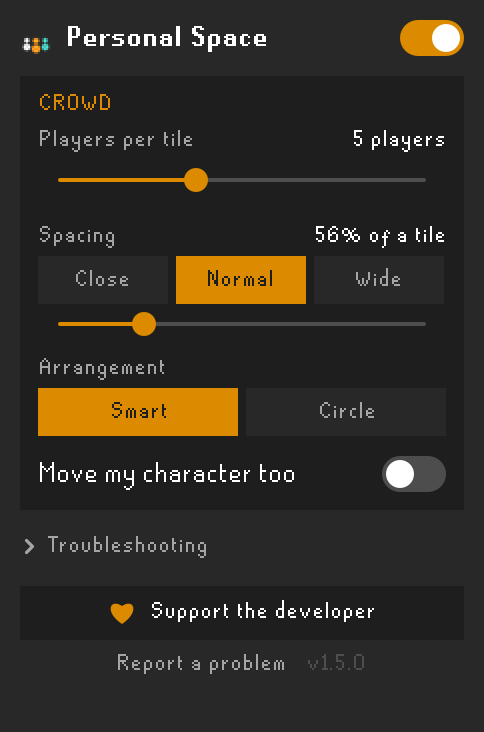
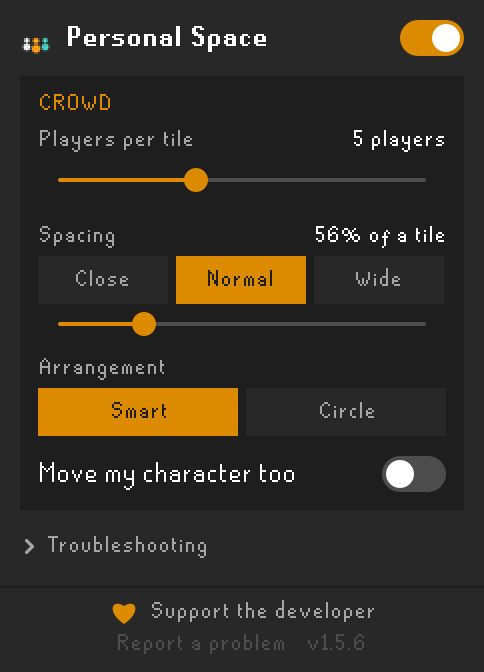
Pin a small Support the developer link to the bottom of the sidebar
The settings now scroll on their own and the support and report links sit
quietly at the very bottom instead of as a big orange button under the
settings. Version 1.5.6.

diff --git a/src/main/java/com/grant9008/personalspace/PersonalSpacePanel.java b/src/main/java/com/grant9008/personalspace/PersonalSpacePanel.java
@@ -23,12 +23,14 @@ import java.awt.image.BufferedImage;
 import java.util.ArrayList;
 import java.util.List;
 import java.util.function.Consumer;
+import javax.swing.BorderFactory;
 import javax.swing.Icon;
 import javax.swing.ImageIcon;
 import javax.swing.JButton;
 import javax.swing.JComponent;
 import javax.swing.JLabel;
 import javax.swing.JPanel;
+import javax.swing.JScrollPane;
 import javax.swing.JSlider;
 import javax.swing.SwingConstants;
 import javax.swing.Timer;
@@ -93,34 +95,39 @@ final class PersonalSpacePanel extends PluginPanel
 
 	PersonalSpacePanel(ConfigManager configManager, PersonalSpaceConfig config)
 	{
+		// No automatic scroll wrapper: the settings scroll on their own, and the links stay pinned
+		// to the bottom of the sidebar out of the way.
+		super(false);
 		this.configManager = configManager;
 		this.config = config;
 
-		setLayout(new GridBagLayout());
-		setBorder(new EmptyBorder(10, 10, 10, 10));
+		setLayout(new BorderLayout());
+		setBorder(new EmptyBorder(0, 0, 0, 0));
 		setBackground(ColorScheme.DARK_GRAY_COLOR);
 
+		JPanel content = new JPanel(new GridBagLayout());
+		content.setBackground(ColorScheme.DARK_GRAY_COLOR);
+		content.setBorder(new EmptyBorder(10, 10, 10, 10));
 		GridBagConstraints c = column();
-		add(buildHeader(), c);
+		content.add(buildHeader(), c);
 
 		c.gridy++;
-		add(buildCrowdCard(), c);
-
-
-		c.gridy++;
-		c.insets = new Insets(0, 0, 6, 0);
-		add(buildTroubleshooting(), c);
+		content.add(buildCrowdCard(), c);
 
 		c.gridy++;
-		c.insets = new Insets(4, 0, 0, 0);
-		add(buildFooter(), c);
+		content.add(buildTroubleshooting(), c);
 
-		// Push everything to the top when the sidebar is taller than the content.
-		c.gridy++;
-		c.weighty = 1;
-		JPanel filler = new JPanel();
-		filler.setOpaque(false);
-		add(filler, c);
+		// Keep the content at the top of the scroll area.
+		JPanel top = new JPanel(new BorderLayout());
+		top.setBackground(ColorScheme.DARK_GRAY_COLOR);
+		top.add(content, BorderLayout.NORTH);
+		JScrollPane scroll = new JScrollPane(top);
+		scroll.setBorder(null);
+		scroll.setHorizontalScrollBarPolicy(JScrollPane.HORIZONTAL_SCROLLBAR_NEVER);
+		scroll.getVerticalScrollBar().setUnitIncrement(16);
+		scroll.getViewport().setBackground(ColorScheme.DARK_GRAY_COLOR);
+		add(scroll, BorderLayout.CENTER);
+		add(buildFooter(), BorderLayout.SOUTH);
 
 		wireControls();
 		refreshControls();
@@ -332,20 +339,24 @@ final class PersonalSpacePanel extends PluginPanel
 	private JPanel buildFooter()
 	{
 		JPanel p = new JPanel(new GridBagLayout());
-		p.setOpaque(false);
+		p.setBackground(ColorScheme.DARK_GRAY_COLOR);
+		p.setBorder(BorderFactory.createCompoundBorder(
+			BorderFactory.createMatteBorder(1, 0, 0, 0, ColorScheme.DARKER_GRAY_COLOR),
+			new EmptyBorder(6, 10, 8, 10)));
 		GridBagConstraints c = column();
 
-		ActionButton support = new ActionButton("Support the developer", new HeartIcon(ColorScheme.BRAND_ORANGE), false);
+		JLabel support = new JLabel("Support the developer", new HeartIcon(ColorScheme.BRAND_ORANGE), SwingConstants.CENTER);
+		support.setIconTextGap(6);
 		support.setToolTipText("Personal Space is free. If you enjoy it, you can chip in here.");
-		support.onClick(() -> LinkBrowser.browse(SUPPORT_URL));
+		link(support, ColorScheme.LIGHT_GRAY_COLOR, () -> LinkBrowser.browse(SUPPORT_URL));
 		p.add(support, c);
 
 		c.gridy++;
-		c.insets = new Insets(6, 0, 0, 0);
+		c.insets = new Insets(3, 0, 0, 0);
 		JPanel small = new JPanel(new FlowLayout(FlowLayout.CENTER, 10, 0));
 		small.setOpaque(false);
 		JLabel report = new JLabel("Report a problem");
-		link(report, ColorScheme.LIGHT_GRAY_COLOR, () -> LinkBrowser.browse(ISSUES_URL));
+		link(report, ColorScheme.MEDIUM_GRAY_COLOR, () -> LinkBrowser.browse(ISSUES_URL));
 		small.add(report);
 		JLabel version = new JLabel("v" + PersonalSpacePlugin.VERSION);
 		version.setFont(FontManager.getRunescapeSmallFont());
@@ -647,84 +658,6 @@ final class PersonalSpacePanel extends PluginPanel
 	}
 
 	// ---- controls ----------------------------------------------------------------------
-
-	/** A full-width button: orange for the main action, dark for secondary ones. */
-	private static final class ActionButton extends JLabel
-	{
-		private final boolean primary;
-		private boolean hover;
-		private Runnable action = () ->
-		{
-		};
-
-		ActionButton(String text, Icon icon, boolean primary)
-		{
-			super(text, icon, SwingConstants.CENTER);
-			this.primary = primary;
-			setOpaque(true);
-			setIconTextGap(7);
-			setFont(primary ? FontManager.getRunescapeBoldFont() : FontManager.getRunescapeSmallFont());
-			setBorder(new EmptyBorder(primary ? 8 : 7, 6, primary ? 8 : 7, 6));
-			setCursor(Cursor.getPredefinedCursor(Cursor.HAND_CURSOR));
-			addMouseListener(new MouseAdapter()
-			{
-				@Override
-				public void mouseClicked(MouseEvent e)
-				{
-					if (isEnabled())
-					{
-						action.run();
-					}
-				}
-
-				@Override
-				public void mouseEntered(MouseEvent e)
-				{
-					hover = true;
-					restyle();
-				}
-
-				@Override
-				public void mouseExited(MouseEvent e)
-				{
-					hover = false;
-					restyle();
-				}
-			});
-			restyle();
-		}
-
-		void onClick(Runnable action)
-		{
-			this.action = action;
-		}
-
-		@Override
-		public void setEnabled(boolean enabled)
-		{
-			super.setEnabled(enabled);
-			restyle();
-		}
-
-		private void restyle()
-		{
-			Color bg;
-			Color fg;
-			if (primary)
-			{
-				bg = !isEnabled() ? ColorScheme.MEDIUM_GRAY_COLOR : hover ? ColorScheme.BRAND_ORANGE.brighter() : ColorScheme.BRAND_ORANGE;
-				fg = SELECTED_TEXT;
-			}
-			else
-			{
-				bg = hover ? ColorScheme.MEDIUM_GRAY_COLOR : ColorScheme.DARKER_GRAY_COLOR;
-				fg = Color.WHITE;
-			}
-			setBackground(bg);
-			setForeground(fg);
-			repaint();
-		}
-	}
 
 	/** An on/off switch drawn in RuneLite's colours. Fires only on a user click. */
 	private static final class ToggleSwitch extends JComponent

diff --git a/src/main/java/com/grant9008/personalspace/PersonalSpacePlugin.java b/src/main/java/com/grant9008/personalspace/PersonalSpacePlugin.java
@@ -45,7 +45,7 @@ import org.slf4j.LoggerFactory;
 )
 public class PersonalSpacePlugin extends Plugin
 {
-	static final String VERSION = "1.5.5";
+	static final String VERSION = "1.5.6";
 
 	private static final Logger log = LoggerFactory.getLogger(PersonalSpacePlugin.class);
 
